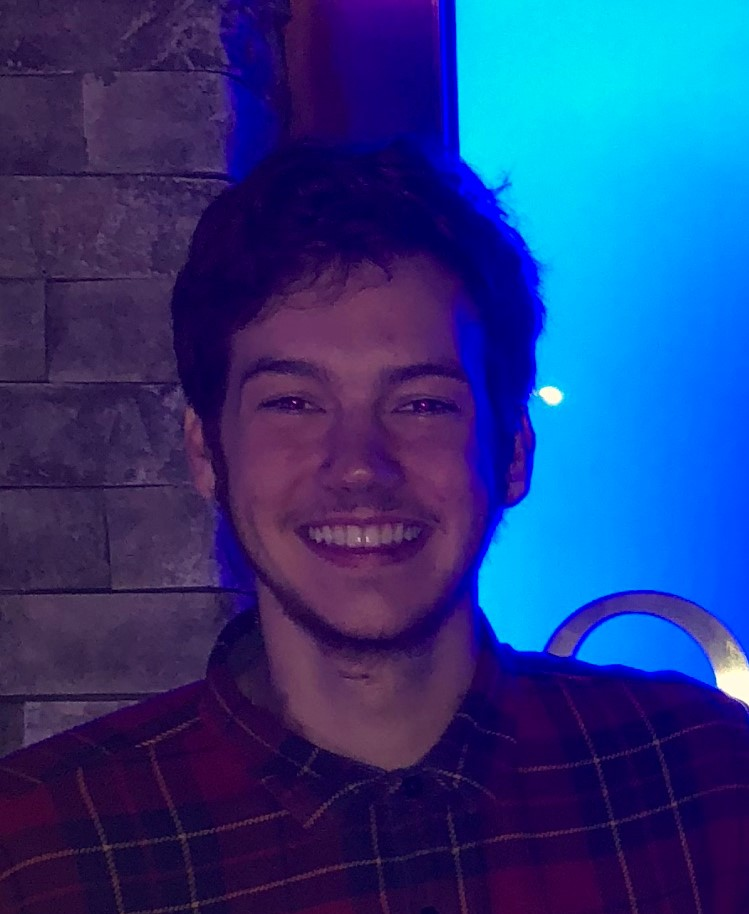
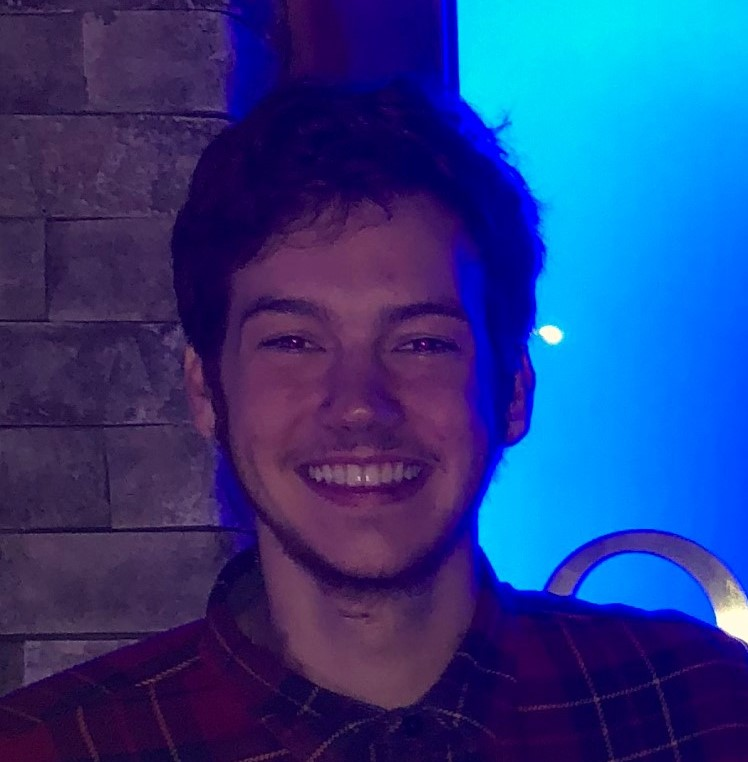
added image

diff --git a/assets/css/style.css b/assets/css/style.css
@@ -106,10 +106,26 @@ html {
     border-style: double;
     border-width: 0 0 4px 0;
     padding: 10px 20px;
-    width: 80%;
-    margin-left: 10%;
+    width: 90%;
+    margin-left: 5%;
     top: 10%;
     font-size: 60px;
     font-family: Georgia, 'Times New Roman', Times, serif;
     position: relative;
+}
+
+.abtsection {
+    background-color: gray;
+    position: relative;
+    top: 15%;
+    width: 80%;
+    margin-left: 10%;
+    border-radius: 16px;
+    box-shadow: 0px 5px 10px black;
+}
+
+.profpic {
+    height: 200px;
+    margin: 25px;
+    border-radius: 50%;
 }

diff --git a/index.html b/index.html
@@ -31,7 +31,7 @@
         <div class="about">
             <h1 class="abouttitle">About</h1>
             <div class="abtsection">
-                <img alt="photo" src="./assets/images/profpic-crop">
+                <img class="profpic" alt="photo" src="./assets/images/profpic-crop.jpg">
                 <p></p>
             </div>
         </div>
